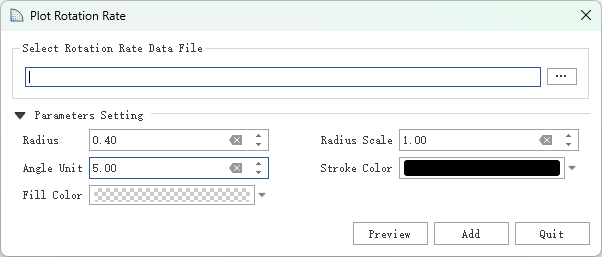
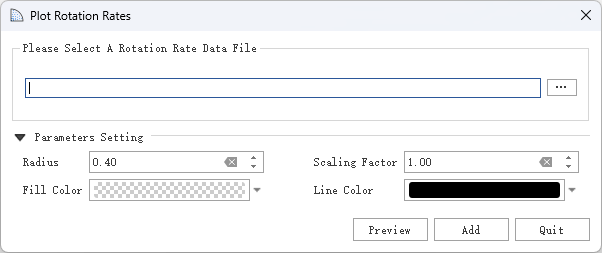
修改功能界面后更新旋转率场文档及截图

diff --git a/docs/source/3 Function (功能介绍).rst b/docs/source/3 Function (功能介绍).rst
@@ -227,9 +227,8 @@ Plot (绘制)菜单主要包括Focal Mechanism（震源机制）、 GNSS Displac
  
     STEP 2：设置旋转率场相关参数，主要包含以下参数：
       * Radius（半径）
-      * Radius Scale（半径比例）
-      * Angle Unit（角度单位）
-      * Stroke Color（描边颜色），默认设置为黑色
+      * Scaling Factor（缩放比例）
+      * Line Color（线条颜色），默认设置为黑色
       * Fill Color（填充颜色），默认设置为透明
     
     STEP 3：点击【Preview（预览）】按钮，即可在地图界面查看显示效果
